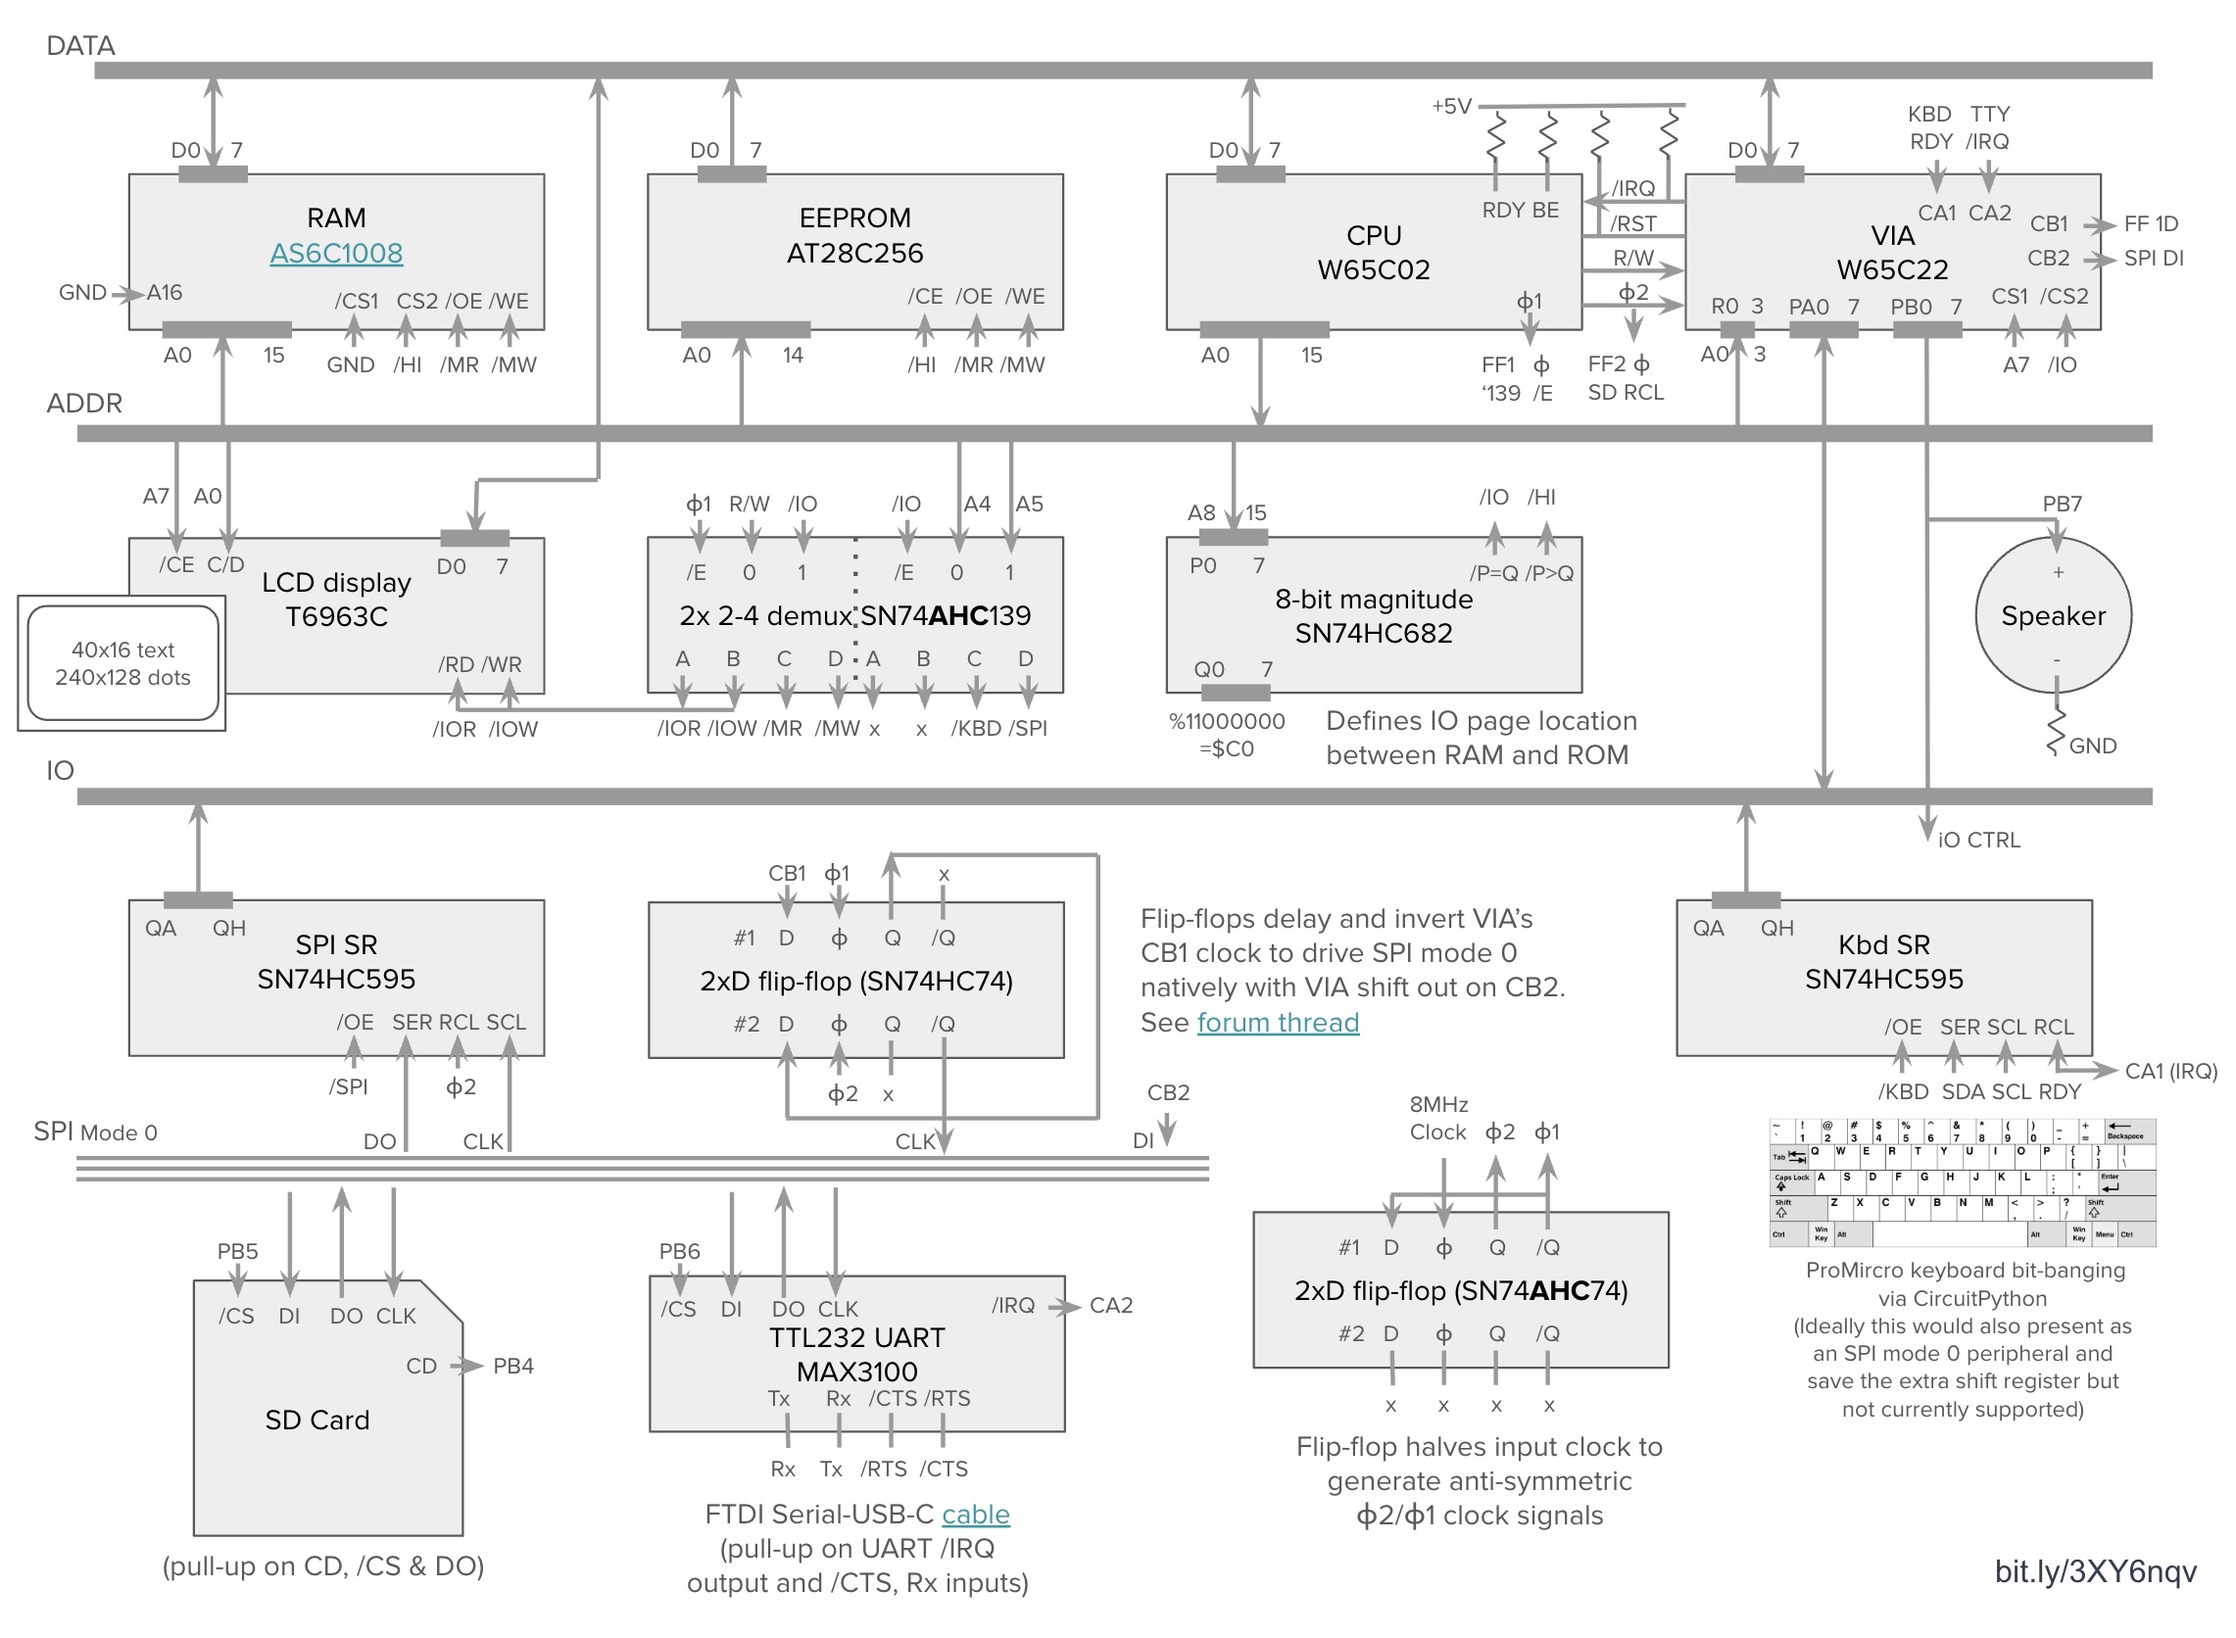
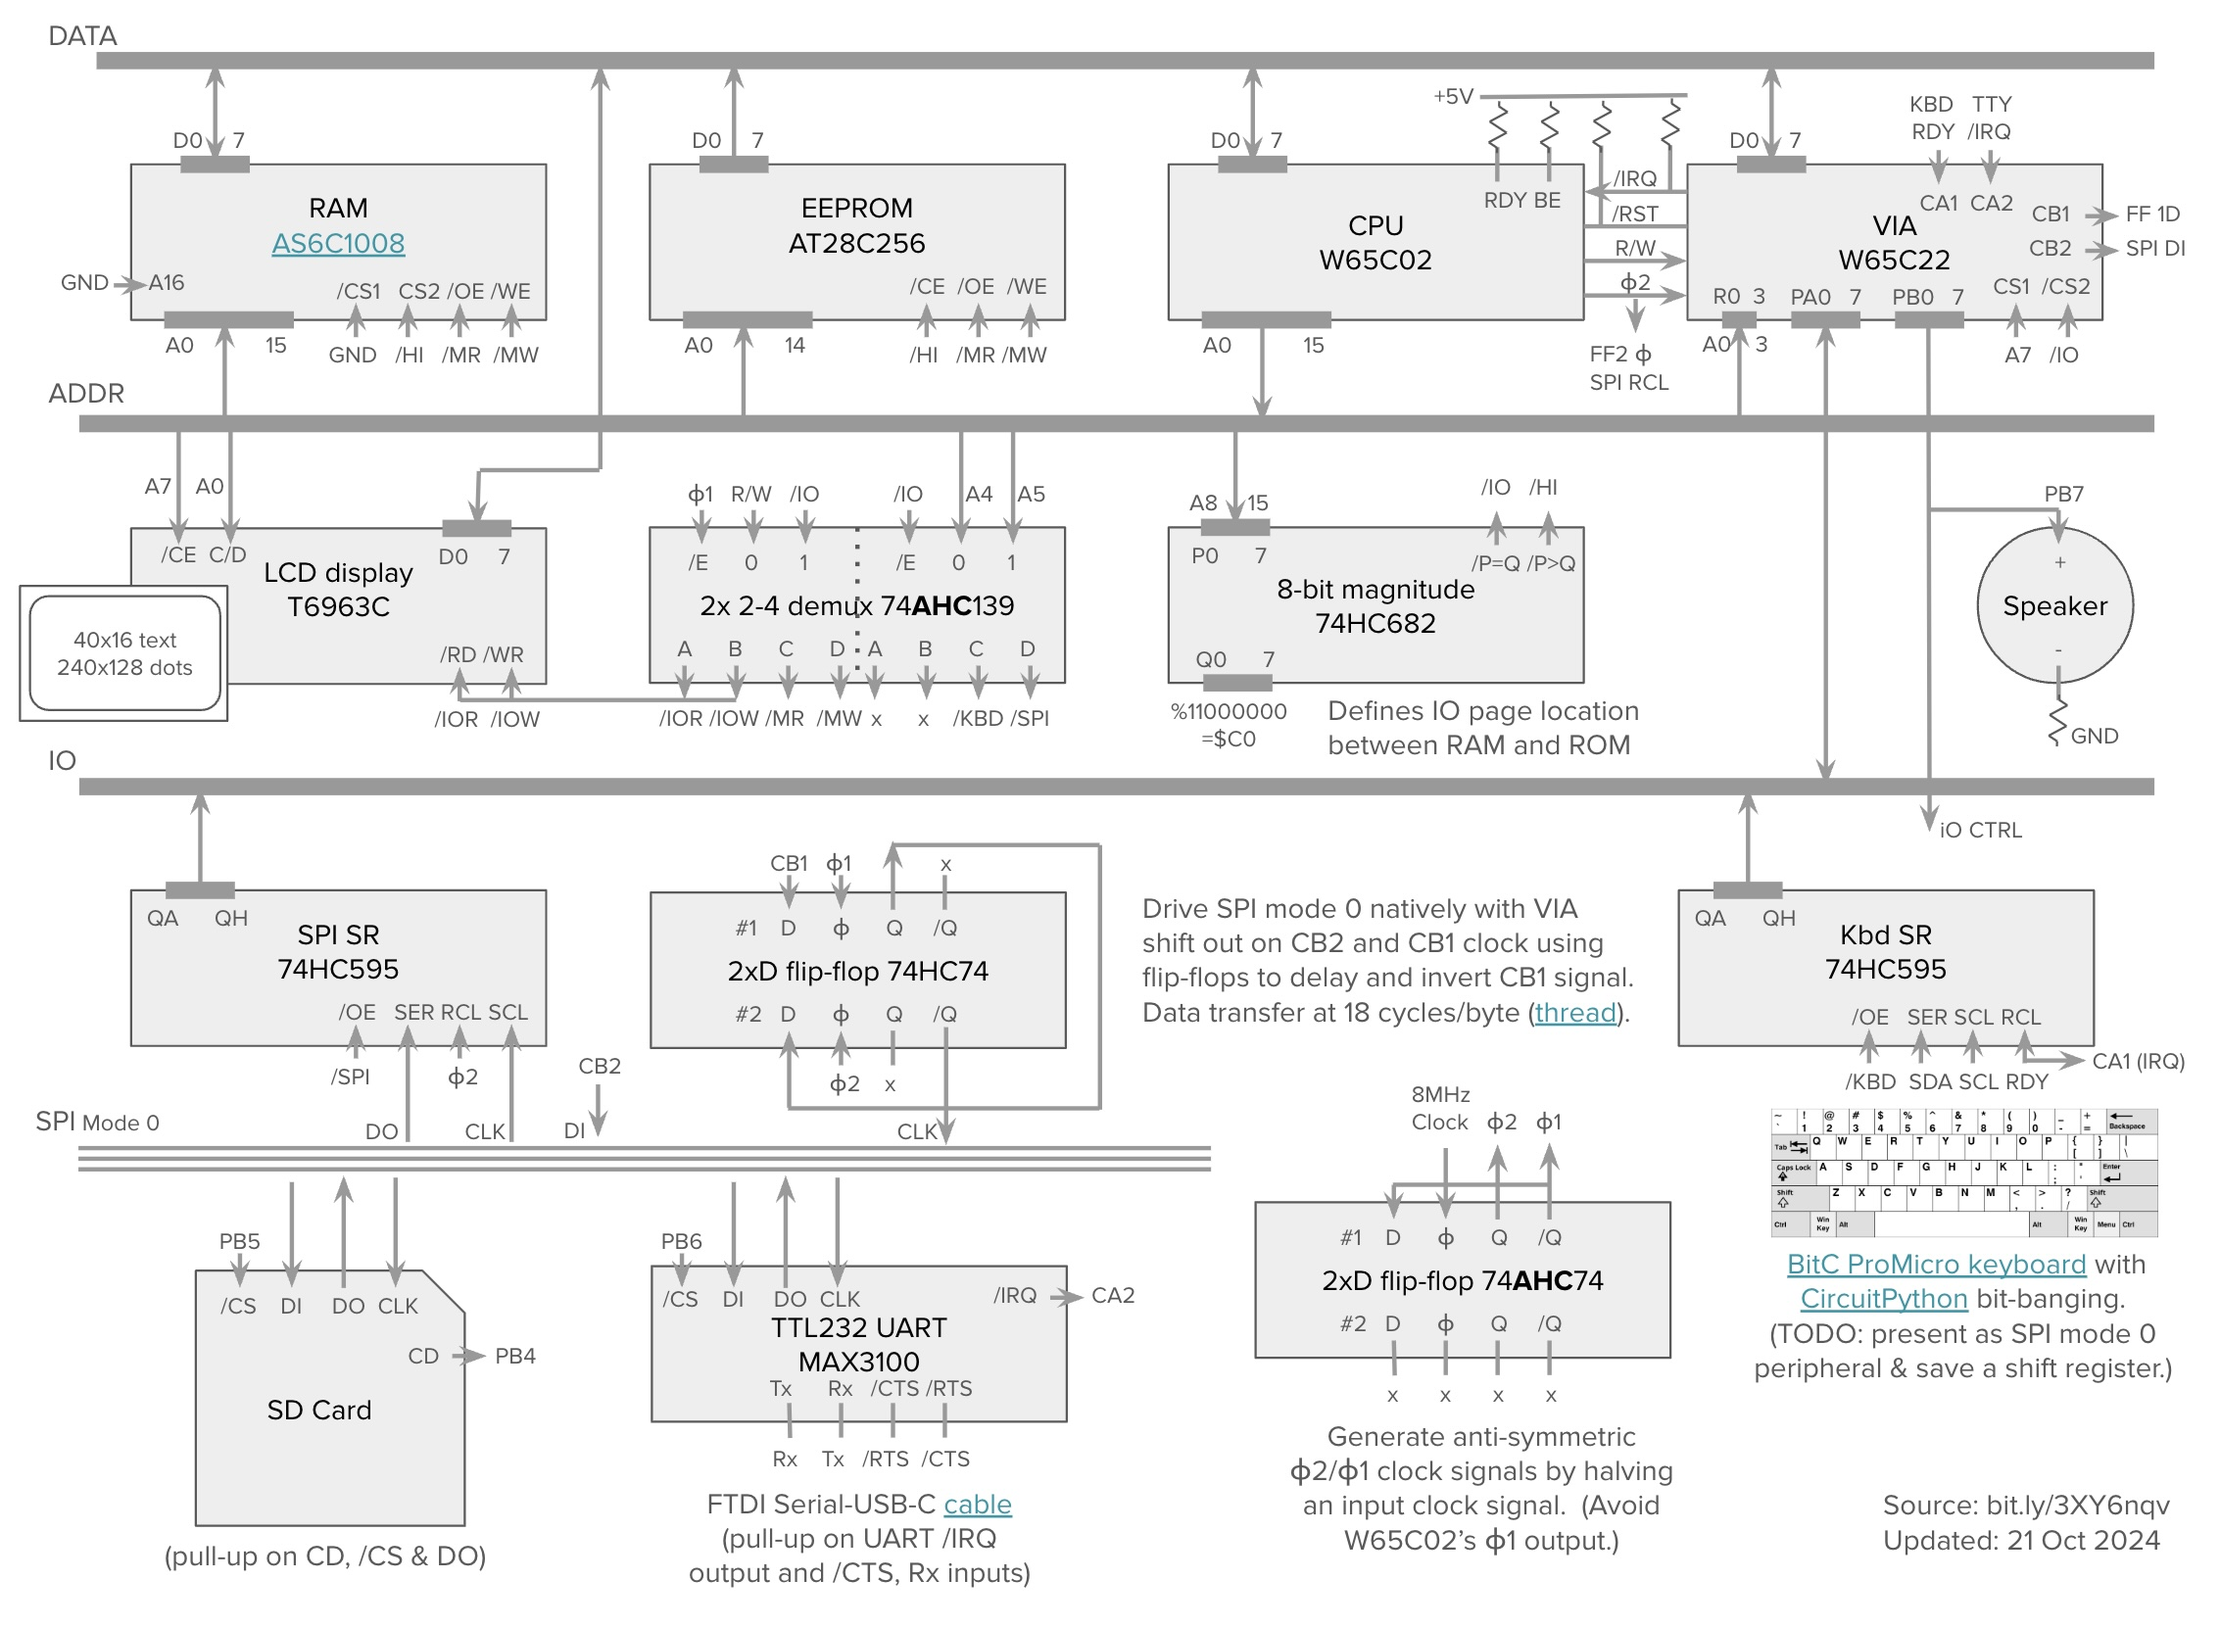
update docs

diff --git a/README.md b/README.md
@@ -1,31 +1,81 @@
 &micro;65c02
 ===
 
-This repo documents the hardware and software for micro-colossus.
+This repo documents the hardware and software for my &micro;65c02, aka `micro-colossus`.
 This is a [Ben Eater](https://www.youtube.com/@BenEater)-inspired build
-to run a native port of [Colossal Cave Adventure](https://en.wikipedia.org/wiki/Colossal_Cave_Adventure)
-(repo: [advent-forth](https://github.com/patricksurry/advent-forth)).
+that runs [Colossal Cave Adventure](https://en.wikipedia.org/wiki/Colossal_Cave_Adventure).
+If you just want to play the game on a simulated 65c02 without building
+the hardware, see [`advent-forth`](https://github.com/patricksurry/advent-forth).
+
 The hardware is based on the W65C02 CPU with W65C22 VIA for IO management with
 48Kb of RAM ($0-bfff), one page of IO ($c000-c0ff) and just under 16Kb
 of ROM ($c100-ffff).
-The current peripherals include a 40x16 text LCD (and/or 240x128 graphics),
-a mechanical keyboard bit-banging with CircuitPython,
+Peripherals currently include a 40x16 text LCD (and/or 240x128 graphics),
+a kit-built mechanical keyboard bit-banging with CircuitPython,
 a one-bit speaker, an SD card reader and a USB-TTY serial interface.
-The kernel is built on a lightly modified version of [TaliForth2](https://github.com/SamCoVT/TaliForth2/).
+The kernel is built on a lightly modified version of [TaliForth2](https://github.com/SamCoVT/TaliForth2/),
+found in my [`adventure` branch](https://github.com/patricksurry/TaliForth2/tree/adventure).
+
+Useful links
+---
+
+- You should read Garth Wilson's [6502 primer](http://wilsonminesco.com/6502primer/),
+  probably more than once.
+
+- My keyboard is the [nullbits nibble kit](https://nullbits.co/nibble/) - I love it!
+
+- I found these printable [IC labels](https://github.com/klemens-u/ic-label-creator)
+  which are easy to cut out and attach with a glue stick.  I find them very helpful
+  for "visual debugging".
+  I've made some changes in [my fork](https://github.com/patricksurry/ic-label-creator).
+
+- The [6502 forum](http://forum.6502.org/) is a great source of ideas and advice
+    along with [`r/beneater`](https://www.reddit.com/r/beneater/).
+
 
 Physical Layout
 ---
+
+This is a reasonably current photo of the actual build.
+I've since added a 100µF bypass capacitor across the +5V input power connector
+which helps stabilize startup time.
+In case of any discrepancy with the schematic the physical build is obviously definitive.
+Please let me know and I'll fix the schematic.
 
 ![breadboard layout](./bb20241014.jpg)
 
 Schematic
 ---
 
+This is a simplified schematic for the build, showing the organization
+around the data, address, IO and SPI buses.   For clarity I don't show all
+connections (labels should match), and omit pins in obvious
+groupings (like D0...D7) along with VCC (+5V) and ground.
+
+As with any breadboard build, make sure you have sufficient power distribution as
+well as bypass capacitors near every IC's power source, on each power rail, and across
+the input power connection (see parts list).
+Garth Wilson's [6502 primer](http://wilsonminesco.com/6502primer/)
+has a great discussion of [power issues](https://wilsonminesco.com/6502primer/construction.html)
+including his #1 tip: *avoid solderless breadboards* :-)
+
+I've tested successfully up to 4MHz (halved 8MHz input clock) *once* I learned to
+avoid the W65C02's output &phi;1 in favor of a symmetric halved clock input.
+Also make sure you use all ICs from the same logic family.
+In practice I found that 74HCxxx worked fine, though I've switched a couple
+of components as noted to 74AHCxxx in order to strictly meet the timing specs.
+
+The IO page address decoding configurable: I use $C0xx but you can
+modify based on your ROM v RAM needs by changing the fixed inputs to the '682.
+I found this design in a [6502 forum discussion](http://forum.6502.org/viewtopic.php?p=88176#p88176)
+which includes much nicer diagrams.  Again Garth's section on
+[address decoding](http://wilsonminesco.com/6502primer/addr_decoding.html)
+is a must read.
+
 ![schematic](./uc-schematic.jpg)
 
 Parts list
 ---
-
 
 Qty | Description
 :---: | :---
@@ -49,6 +99,7 @@ Qty | Description
 15  | 3.3-10KkΩ pull-up resistors
 12  | 100nF (0.1µF) bypass capacitors (near VCC for each IC)
 5   | 10µF bypass capacitors (one on each power rail)
+1   | 100µF bypass capacitor (where external +5V power connects)
 |   | (optional) |
 1   | MAX3100 UART (SPI mode 0 TTL-232 interface)
 1   | ECS-18-13-1X 1.8432MHz crystal oscillator
@@ -59,17 +110,5 @@ Qty | Description
 2   | 220Ω resistor (speaker, LED)
 
 Note: The HC logic family seems to work fine in practice but at least the '139 and '74 should be AHC to stay in spec for W65C02 timing.
+Using AHC throughout should be fine.
 
-
-https://nullbits.co/
-
-https://github.com/klemens-u/ic-label-creator (https://github.com/patricksurry/ic-label-creator)
-TODO
----
-
-- [ ] variable wait on startup, econoreset or max current draw issue?
-- [x] should use emit_a instead of kernel_putc in txt_* for better tty interaction
-- [x] add SREC> ( -- xt f ) word to parse 64tass `--s-record` output
-- [x] add >SREC ( addr u -- ) to generate SRECORD output
-- [x] fix CLEAVE using is_whitespace
-- [ ] merge DIGIT? with convert_hex_value and chr2nbl
